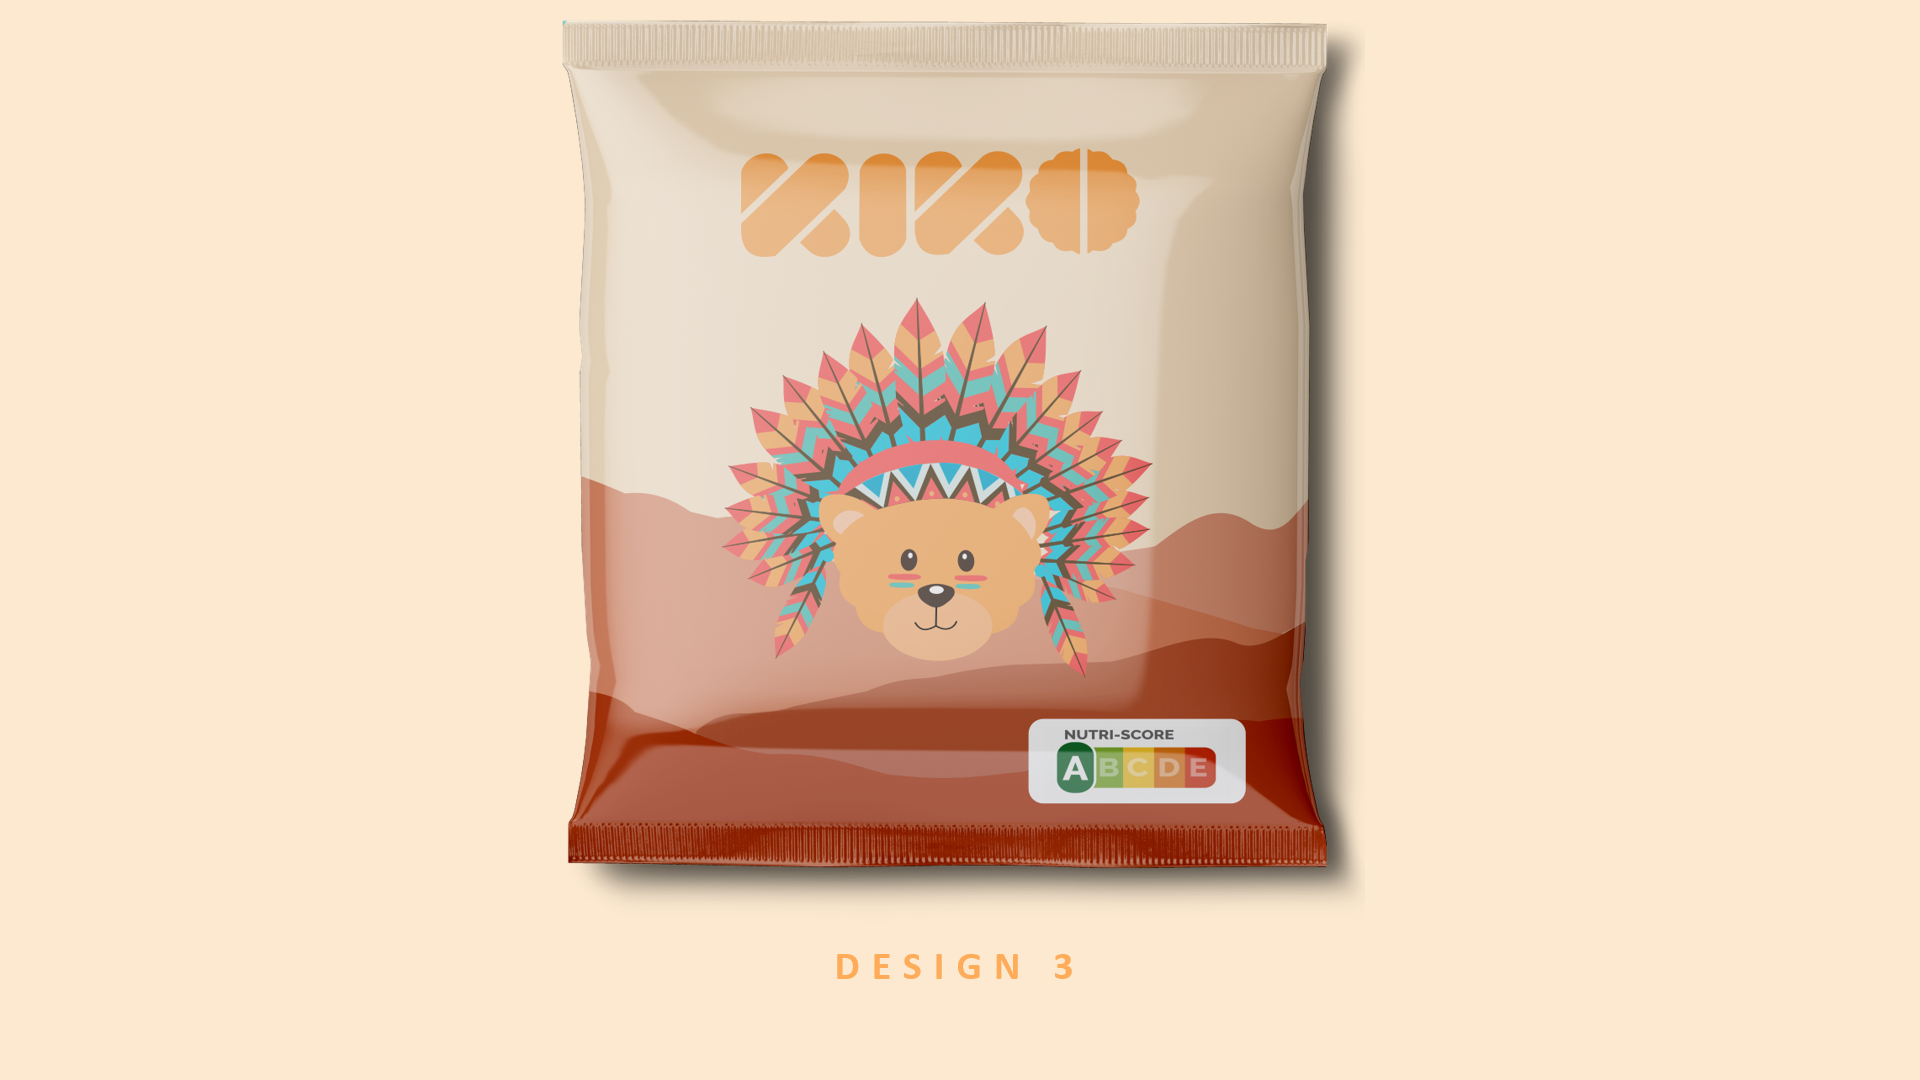
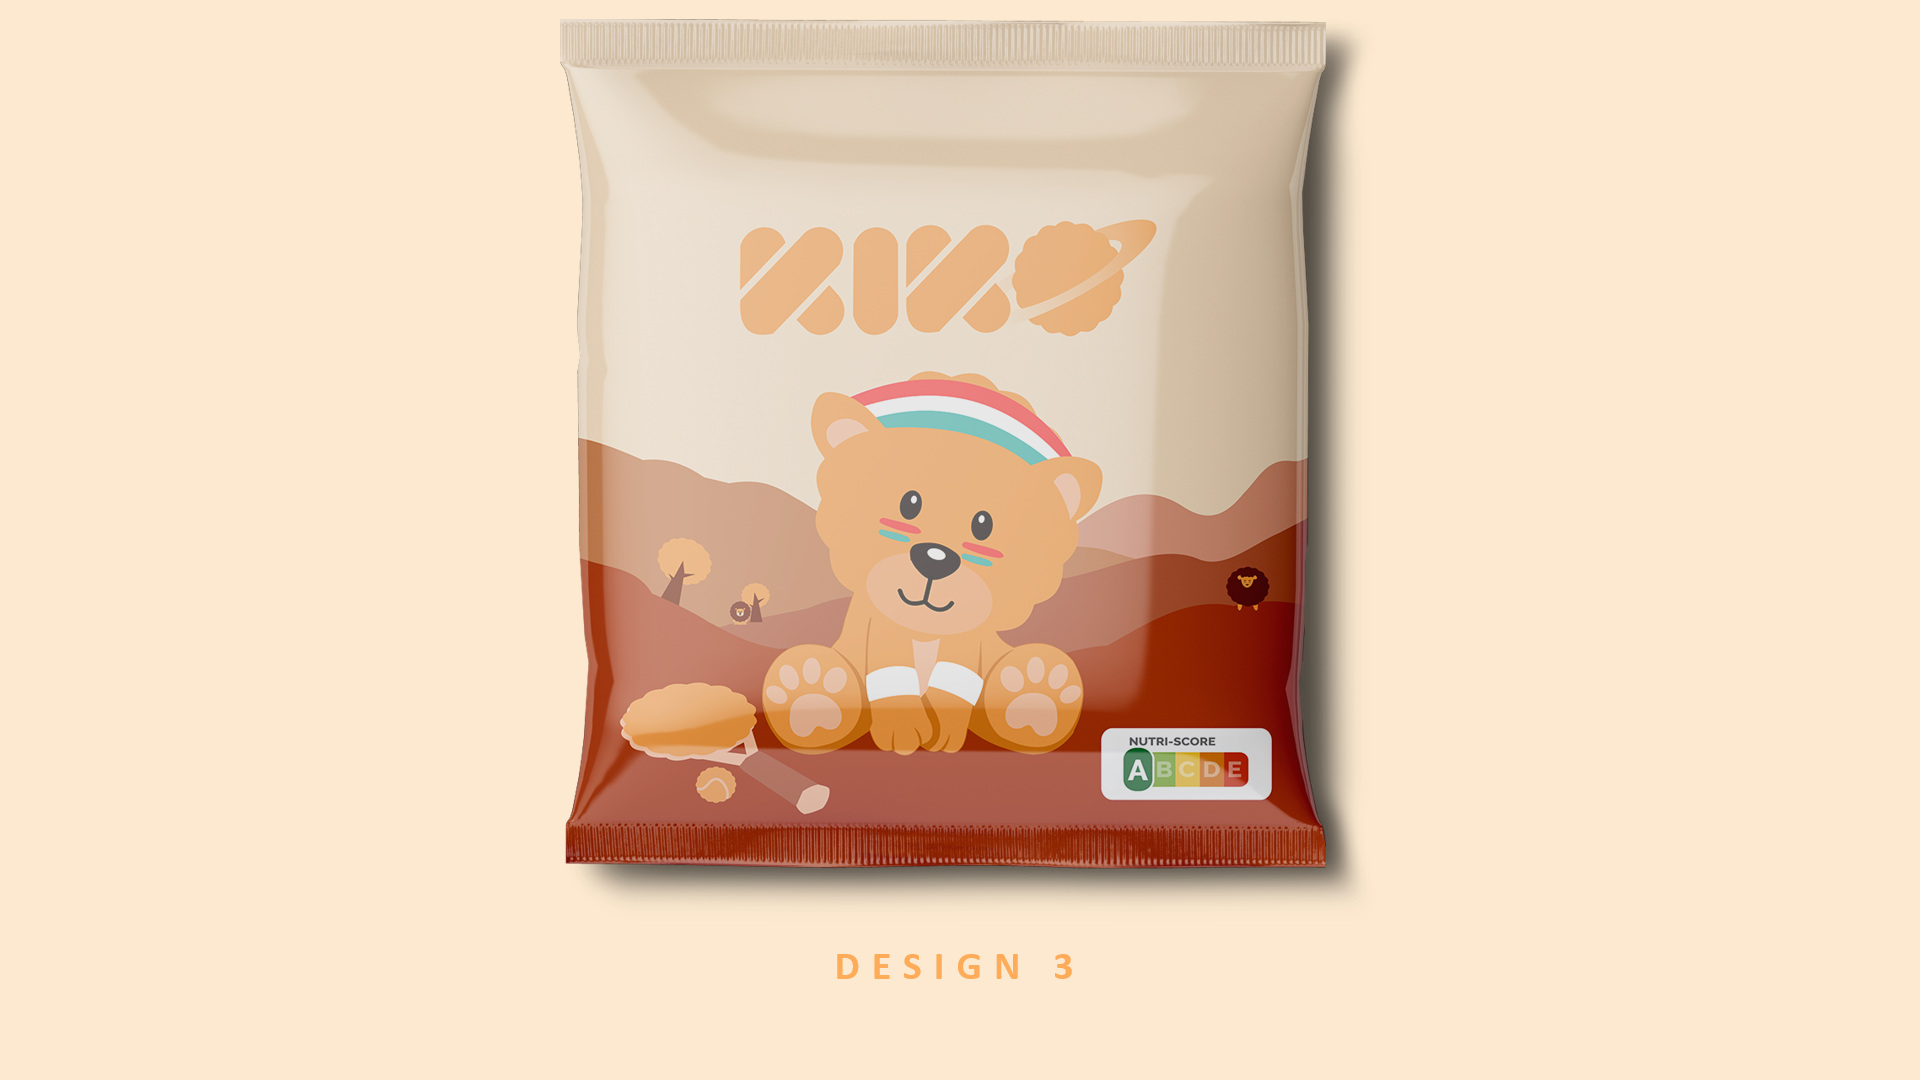
new visuals

diff --git a/comingSoon.css b/comingSoon.css
@@ -49,10 +49,10 @@
   z-index: 2;
 }
 .comingSoonPage div img {
-  width: 14%;
+  width: 20%;
   position: absolute;
   bottom: 40%;
-  right: 43%;
+  right: 40%;
   z-index: 1;
   background-color: rgba(0, 0, 0, 0);
 }
@@ -99,8 +99,8 @@
 /* Small Screen -------------------------------------------------------------------------------*/
 @media all and (max-width: 767px) {
   .comingSoonPage div img {
-    width: 50%;
-    left: 25%;
+    width: 80%;
+    left: 10%;
   }
 
   .comingSoonPage div h1 {

diff --git a/index.html b/index.html
@@ -37,7 +37,7 @@
     </nav>
     <section class="comingSoonPage">
         <div>
-            <img src="BearTwoFeathers.png">
+            <img src="KikoSportBear.png">
             <h1>COMING SOON</h1>
             <h2>KIKO'S GEZONDE KINDERKOEKJES</h2>
             <a href="mailto:info@kikofood.com?subject=Hou me op de hoogte van de lancering"><button>HOU ME OP DE HOOGTE</button></a>
